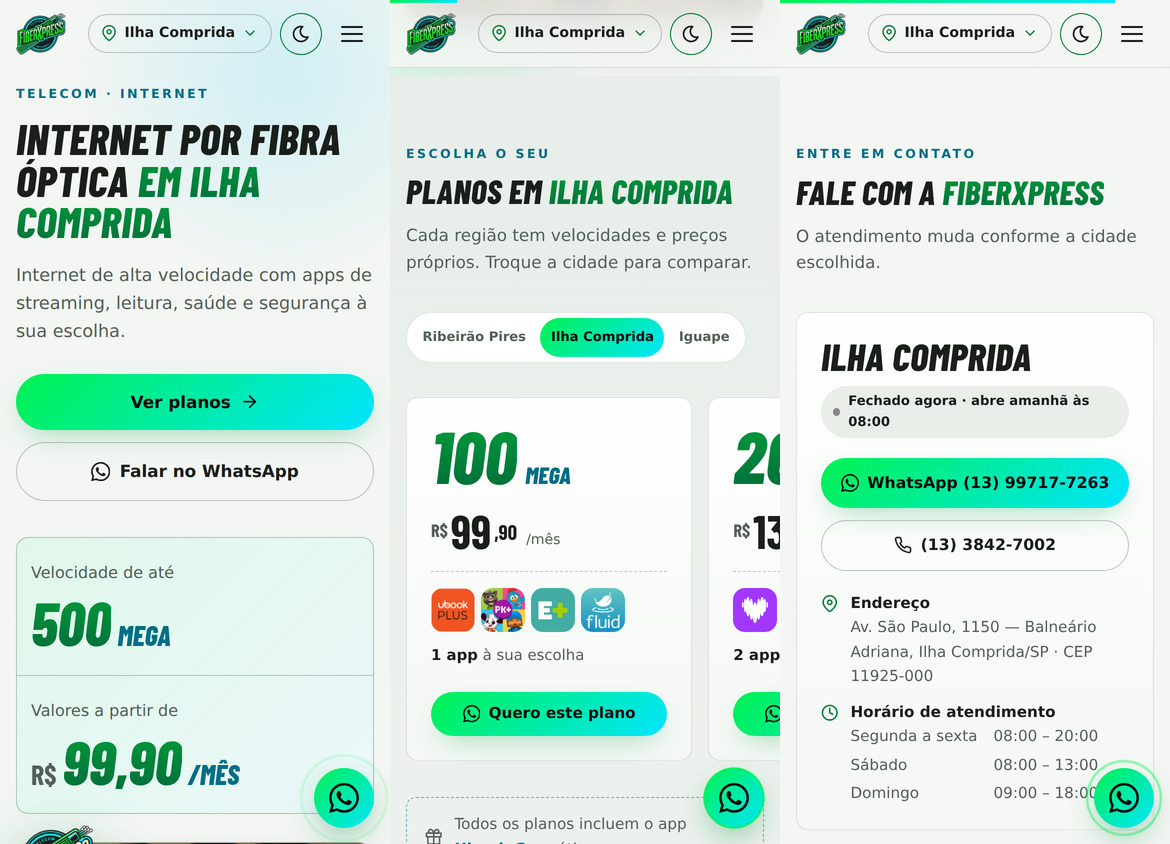
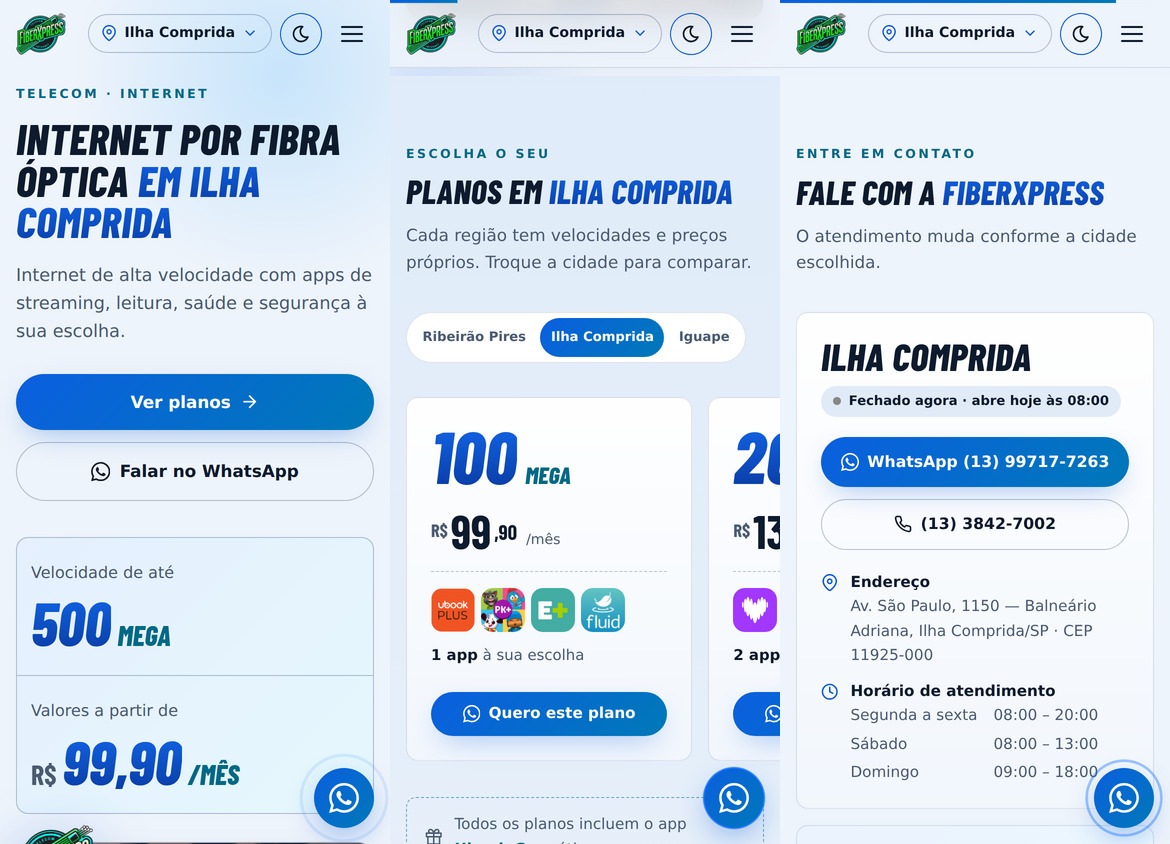
Muda o modo claro para tons de azul
O modo claro deixa de usar verde e passa a usar fundo azul-gelo, cartões
brancos, texto azul-marinho e botões, títulos e ícones em azul, para se
diferenciar do modo escuro (preto e verde). "Aberto agora" continua verde.
Atualiza as prévias e a nota.

Claude-Session: https://claude.ai/code/session_011o5UsA5SsMpq5wAWSkBXUp

diff --git a/site/esboco.html b/site/esboco.html
@@ -16,7 +16,8 @@
   --preto:#1e1e1e; --preto-2:#262626; --preto-3:#2e2e2e;
   --linha:rgba(255,255,255,.09); --linha-forte:rgba(255,255,255,.2);
   --verde:#00f251; --azul:#00e5ff; --branco:#fff; --creme:#e9edd2;
-  --verde-txt:#00f251; --azul-txt:#00e5ff;
+  --ac1-txt:#00f251; --ac2-txt:#00e5ff; --ok-txt:#00f251;
+  --btn-txt:#0d0d0d; --ac-fill:var(--verde); --fio-1:var(--verde); --fio-2:var(--azul);
   --txt:#f4f6f0; --txt-2:#aab1a6;
   --grad:linear-gradient(135deg,var(--verde),var(--azul));
   --grad-txt:linear-gradient(180deg,var(--creme) 0%,var(--verde) 62%);
@@ -42,28 +43,30 @@
   --f-txt:system-ui,-apple-system,'Segoe UI',Roboto,sans-serif;
 }
 :root[data-theme="light"]{
-  /* claro: fundo branco-esverdeado, cartões brancos, texto preto fosco; verde e azul escuros para texto */
-  --preto:#f3f6f3; --preto-2:#ffffff; --preto-3:#e9eee9;
-  --linha:rgba(20,32,24,.11); --linha-forte:rgba(20,32,24,.24);
-  --verde-txt:#007a36; --azul-txt:#006e86;
-  --txt:#1b1f1c; --txt-2:#556058;
-  --grad-txt:linear-gradient(180deg,#009a3c 0%,#00703a 100%);
-  --input-bg:#ffffff; --card-2:#f5f8f5;
-  --topo-bg:rgba(243,246,243,.88); --menu-bg:#f3f6f3; --menu-on-bg:rgba(0,122,54,.1);
-  --plano-prem:linear-gradient(180deg,#eef9f1,#fbfefc); --plano-hover-borda:rgba(0,122,54,.5); --plano-prem-borda:rgba(0,122,54,.35);
-  --sombra-hover:0 24px 40px -28px rgba(0,122,54,.5); --sombra-sel:0 24px 44px -30px rgba(0,122,54,.55);
-  --sec-alt:linear-gradient(180deg,#e8eee9,var(--preto));
-  --destaque-bg:linear-gradient(135deg,rgba(0,200,83,.12),rgba(0,168,200,.08)),#ffffff;
-  --caixa-bg:linear-gradient(135deg,rgba(0,200,83,.10),rgba(0,168,200,.08)),var(--preto-2);
-  --ficha-bg:linear-gradient(180deg,#ffffff,#f5f8f5);
-  --rodape-bg:#e6ece7; --rodape-fim:#5d675f;
-  --foto-bg:#dfe7e1; --foto-sombra:0 30px 60px -30px rgba(20,40,28,.45);
-  --foto-ov:linear-gradient(180deg,rgba(0,0,0,0) 60%,rgba(0,0,0,.28));
-  --gate-bg:rgba(236,241,237,.82); --gate-box:linear-gradient(180deg,#ffffff,#f4f8f5); --gate-op-hover:#eaf7ee;
-  --gate-sombra:0 40px 100px -30px rgba(20,40,28,.35),0 0 0 1px rgba(0,110,134,.1);
-  --legenda-bg:rgba(255,255,255,.95); --ubook-borda:rgba(0,110,134,.5);
-  --hero-glow-1:rgba(0,200,255,.14); --hero-glow-2:rgba(0,220,100,.12);
-  --btn-sombra:rgba(0,160,70,.4); --btn-sombra-h:rgba(0,160,70,.55); --fab-sombra:rgba(0,140,60,.45); --selo-sombra:rgba(0,140,60,.35);
+  /* claro (azul): fundo azul-gelo, cartões brancos, texto azul-marinho fosco. O verde fica só no modo escuro. */
+  --preto:#eef4fb; --preto-2:#ffffff; --preto-3:#e1ebf7;
+  --linha:rgba(10,40,90,.12); --linha-forte:rgba(10,40,90,.26);
+  --ac1-txt:#0a58d6; --ac2-txt:#006985; --ok-txt:#007a36;
+  --txt:#0e1b2e; --txt-2:#4a5b72;
+  --grad:linear-gradient(135deg,#0b5fe0,#0079b8);
+  --grad-txt:linear-gradient(180deg,#1264e6 0%,#0a3fa8 100%);
+  --btn-txt:#ffffff; --ac-fill:#0a6cff; --fio-1:#0a6cff; --fio-2:#00b8e6;
+  --input-bg:#ffffff; --card-2:#f2f7fd;
+  --topo-bg:rgba(238,244,251,.88); --menu-bg:#eef4fb; --menu-on-bg:rgba(10,88,214,.1);
+  --plano-prem:linear-gradient(180deg,#e8f1ff,#fafcff); --plano-hover-borda:rgba(10,88,214,.5); --plano-prem-borda:rgba(10,88,214,.35);
+  --sombra-hover:0 24px 40px -28px rgba(10,88,214,.5); --sombra-sel:0 24px 44px -30px rgba(10,88,214,.55);
+  --sec-alt:linear-gradient(180deg,#e0ecf9,var(--preto));
+  --destaque-bg:linear-gradient(135deg,rgba(10,108,255,.1),rgba(0,184,230,.1)),#ffffff;
+  --caixa-bg:linear-gradient(135deg,rgba(10,108,255,.08),rgba(0,184,230,.08)),var(--preto-2);
+  --ficha-bg:linear-gradient(180deg,#ffffff,#f2f7fd);
+  --rodape-bg:#dbe7f5; --rodape-fim:#4a5b72;
+  --foto-bg:#d3e2f3; --foto-sombra:0 30px 60px -30px rgba(10,50,120,.45);
+  --foto-ov:linear-gradient(180deg,rgba(8,25,60,0) 58%,rgba(8,25,60,.32)),linear-gradient(135deg,rgba(10,108,255,.12),rgba(0,184,230,.08));
+  --gate-bg:rgba(222,234,248,.84); --gate-box:linear-gradient(180deg,#ffffff,#f1f7fd); --gate-op-hover:#e6f0ff;
+  --gate-sombra:0 40px 100px -30px rgba(10,50,120,.35),0 0 0 1px rgba(10,108,255,.12);
+  --legenda-bg:rgba(255,255,255,.95); --ubook-borda:rgba(0,105,133,.5);
+  --hero-glow-1:rgba(0,150,255,.16); --hero-glow-2:rgba(10,90,255,.11);
+  --btn-sombra:rgba(10,90,216,.4); --btn-sombra-h:rgba(10,90,216,.55); --fab-sombra:rgba(10,90,216,.45); --selo-sombra:rgba(10,90,216,.35);
   color-scheme:light;
 }
 *{box-sizing:border-box;margin:0;padding:0}
@@ -75,7 +78,7 @@ a{color:inherit;text-decoration:none}
 button,input{font:inherit;color:inherit}
 button{background:none;border:0;cursor:pointer}
 ul{list-style:none}
-:focus-visible{outline:2px solid var(--azul-txt);outline-offset:3px;border-radius:8px}
+:focus-visible{outline:2px solid var(--ac2-txt);outline-offset:3px;border-radius:8px}
 .wrap{width:min(1180px,100% - 32px);margin-inline:auto}
 .ico{width:1.15em;height:1.15em;fill:none;stroke:currentColor;stroke-width:2;stroke-linecap:round;stroke-linejoin:round;flex:none}
 .ico--cheio{fill:currentColor;stroke:none}
@@ -83,13 +86,13 @@ ul{list-style:none}
 /* ---------- botões e tags ---------- */
 .btn{display:inline-flex;align-items:center;justify-content:center;gap:.55em;padding:.9em 1.4em;border-radius:999px;font-weight:700;font-size:.95rem;line-height:1;white-space:nowrap;transition:transform .2s,box-shadow .2s,border-color .2s,color .2s}
 .btn:active{transform:scale(.97)}
-.btn--verde{background:var(--grad);color:#0d0d0d;box-shadow:0 10px 30px -10px var(--btn-sombra)}
+.btn--verde{background:var(--grad);color:var(--btn-txt);box-shadow:0 10px 30px -10px var(--btn-sombra)}
 .btn--verde:hover{transform:translateY(-2px);box-shadow:0 14px 34px -10px var(--btn-sombra-h)}
 .btn--linha{border:1.5px solid var(--linha-forte)}
-.btn--linha:hover{border-color:var(--azul-txt);color:var(--azul-txt)}
+.btn--linha:hover{border-color:var(--ac2-txt);color:var(--ac2-txt)}
 .btn--grande{padding:1.1em 1.8em;font-size:1.05rem}
 .btn[disabled]{opacity:.45;cursor:not-allowed;transform:none}
-.eyebrow{color:var(--azul-txt);font:700 .78rem/1 var(--f-txt);letter-spacing:.2em;text-transform:uppercase}
+.eyebrow{color:var(--ac2-txt);font:700 .78rem/1 var(--f-txt);letter-spacing:.2em;text-transform:uppercase}
 .rev{display:inline-block;margin-left:8px;padding:3px 8px;border-radius:999px;background:#ffc94d;color:#1e1e1e;font:700 10.5px/1.2 var(--f-txt);letter-spacing:.04em;text-transform:uppercase;vertical-align:middle;white-space:nowrap}
 
 /* ---------- barra de progresso e topo ---------- */
@@ -101,10 +104,10 @@ ul{list-style:none}
 .menu{display:flex;gap:2px;margin-left:auto}
 .menu a{padding:.55em .95em;border-radius:999px;font-weight:600;font-size:.93rem;color:var(--txt-2);transition:color .2s,background .2s}
 .menu a:hover{color:var(--txt)}
-.menu a.on{color:var(--verde-txt);background:var(--menu-on-bg)}
+.menu a.on{color:var(--ac1-txt);background:var(--menu-on-bg)}
 .chip{display:inline-flex;align-items:center;gap:.5em;padding:.55em .9em;border:1.5px solid var(--linha-forte);border-radius:999px;font-weight:600;font-size:.88rem;white-space:nowrap}
-.chip .ico{color:var(--verde-txt)}
-.chip:hover{border-color:var(--verde-txt)}
+.chip .ico{color:var(--ac1-txt)}
+.chip:hover{border-color:var(--ac1-txt)}
 .burger{display:none;width:44px;height:44px;border-radius:12px;place-items:center;align-content:center;gap:5px}
 .burger span{display:block;width:22px;height:2px;border-radius:2px;background:var(--txt);transition:transform .3s,opacity .3s}
 .burger[aria-expanded=true] span:nth-child(1){transform:translateY(7px) rotate(45deg)}
@@ -112,7 +115,7 @@ ul{list-style:none}
 .burger[aria-expanded=true] span:nth-child(3){transform:translateY(-7px) rotate(-45deg)}
 .topo .btn{padding:.7em 1.1em;font-size:.88rem}
 .tema{display:grid;place-items:center;flex:none;width:42px;height:42px;border-radius:50%;border:1.5px solid var(--linha-forte);transition:border-color .2s,transform .2s,background-color .2s}
-.tema:hover{border-color:var(--verde-txt);transform:rotate(18deg)}
+.tema:hover{border-color:var(--ac1-txt);transform:rotate(18deg)}
 .tema .ico{width:20px;height:20px}
 .tema .ico-lua{display:none}
 :root[data-theme="light"] .tema .ico-sol{display:none}
@@ -136,7 +139,7 @@ h1 em,h2 em{font-style:inherit;background:var(--grad-txt);-webkit-background-cli
 .destaque small{font-size:1rem;color:var(--txt-2)}
 .destaque b{display:flex;align-items:baseline;gap:6px;font:800 clamp(2.6rem,11cqi,5.4rem)/.95 var(--f-tit);font-style:italic;text-transform:uppercase;white-space:nowrap}
 .destaque .num{background:var(--grad-txt);-webkit-background-clip:text;background-clip:text;-webkit-text-fill-color:transparent;color:transparent}
-.destaque em{font-size:.46em;font-style:italic;color:var(--azul-txt)}
+.destaque em{font-size:.46em;font-style:italic;color:var(--ac2-txt)}
 .destaque i{font-size:.46em;font-style:normal;color:var(--txt-2)}
 @container (max-width:440px){
   .destaque{grid-template-columns:1fr}
@@ -148,12 +151,12 @@ h1 em,h2 em{font-style:inherit;background:var(--grad-txt);-webkit-background-cli
 .foto img{display:block;width:100%;height:100%;object-fit:cover}
 .foto::after{content:"";position:absolute;inset:0;pointer-events:none;background:var(--foto-ov)}
 .hero__selo{position:absolute;z-index:2;left:-18px;top:-24px;width:104px;height:auto;animation:flutua 7s ease-in-out infinite;filter:drop-shadow(0 14px 30px var(--selo-sombra))}
-.fio{position:absolute;height:4px;width:55%;border-radius:4px;background:linear-gradient(90deg,transparent,var(--verde),var(--azul),transparent);transform:rotate(-34deg);opacity:0;filter:drop-shadow(0 0 8px var(--verde));animation:fio 5s linear infinite}
+.fio{position:absolute;height:4px;width:55%;border-radius:4px;background:linear-gradient(90deg,transparent,var(--fio-1),var(--fio-2),transparent);transform:rotate(-34deg);opacity:0;filter:drop-shadow(0 0 8px var(--fio-1));animation:fio 5s linear infinite}
 .f1{top:20%;left:-14%}.f2{top:42%;left:-22%;animation-delay:1.1s}.f3{top:64%;left:-10%;animation-delay:2.2s}.f4{top:82%;left:6%;animation-delay:3.3s}.f5{top:6%;left:10%;animation-delay:4.1s}
 @keyframes fio{0%{opacity:0;translate:-20% 14%}20%{opacity:.9}80%{opacity:.9}100%{opacity:0;translate:70% -48%}}
 @keyframes flutua{50%{transform:translateY(-12px) rotate(-1.2deg)}}
 .rolar{position:absolute;left:50%;bottom:18px;translate:-50% 0;width:26px;height:42px;border:2px solid var(--linha-forte);border-radius:14px;opacity:.7}
-.rolar::after{content:"";position:absolute;left:50%;top:8px;width:4px;height:8px;margin-left:-2px;border-radius:4px;background:var(--verde);animation:rola 1.8s ease-in-out infinite}
+.rolar::after{content:"";position:absolute;left:50%;top:8px;width:4px;height:8px;margin-left:-2px;border-radius:4px;background:var(--ac-fill);animation:rola 1.8s ease-in-out infinite}
 @keyframes rola{0%{opacity:0;transform:translateY(0)}30%{opacity:1}100%{opacity:0;transform:translateY(14px)}}
 
 /* ---------- seções ---------- */
@@ -171,7 +174,7 @@ h2{font-size:clamp(2.1rem,5.2vw,3.6rem);line-height:1}
 .seg--cheio button{flex:1}
 .seg button{padding:.7em 1.15em;border-radius:999px;font-weight:600;font-size:.9rem;color:var(--txt-2);white-space:nowrap;transition:color .2s,background .2s}
 .seg button:hover{color:var(--txt)}
-.seg button[aria-selected=true]{background:var(--grad);color:#0d0d0d}
+.seg button[aria-selected=true]{background:var(--grad);color:var(--btn-txt)}
 
 /* ---------- planos ---------- */
 .planos{display:grid;gap:16px;grid-template-columns:repeat(4,minmax(0,1fr));margin:28px 0 20px}
@@ -180,7 +183,7 @@ h2{font-size:clamp(2.1rem,5.2vw,3.6rem);line-height:1}
 .plano--prem{border-color:var(--plano-prem-borda);background:var(--plano-prem)}
 .plano__vel{display:flex;align-items:baseline;gap:8px;font-family:var(--f-tit);font-weight:800;font-style:italic;text-transform:uppercase}
 .plano__vel b{font-size:4.6rem;line-height:.85;background:var(--grad-txt);-webkit-background-clip:text;background-clip:text;-webkit-text-fill-color:transparent;color:transparent}
-.plano__vel span{font-size:1.5rem;color:var(--azul-txt)}
+.plano__vel span{font-size:1.5rem;color:var(--ac2-txt)}
 .plano__preco{display:flex;align-items:flex-start;gap:3px;font-family:var(--f-tit);font-weight:700}
 .plano__preco .rs{margin-top:.5rem;font-size:1.15rem;color:var(--txt-2)}
 .plano__preco b{font-size:2.9rem;line-height:1}
@@ -199,7 +202,7 @@ h2{font-size:clamp(2.1rem,5.2vw,3.6rem);line-height:1}
 .planos.troca .plano{animation:entra .5s both;animation-delay:calc(var(--i) * 70ms)}
 @keyframes entra{from{opacity:0;transform:translateY(18px) scale(.97)}}
 .ubook{display:flex;align-items:center;gap:12px;padding:14px 18px;border:1px dashed var(--ubook-borda);border-radius:10px;color:var(--txt-2);font-size:.95rem}
-.ubook b{color:var(--azul-txt)}
+.ubook b{color:var(--ac2-txt)}
 .sva{margin-top:48px;padding:clamp(20px,4vw,36px);border-radius:var(--raio);background:var(--preto-2);border:1px solid var(--linha);display:grid;gap:18px}
 .sva h3{font-size:1.7rem}
 .chips{display:flex;flex-wrap:wrap;gap:8px}
@@ -208,26 +211,26 @@ h2{font-size:clamp(2.1rem,5.2vw,3.6rem);line-height:1}
 /* ---------- cobertura ---------- */
 .cidades{display:grid;gap:16px;grid-template-columns:repeat(auto-fit,minmax(270px,1fr))}
 .cidade{display:flex;flex-direction:column;gap:12px;padding:26px 24px;border-radius:var(--raio);background:var(--preto-2);border:1px solid var(--linha);transition:border-color .25s,box-shadow .25s}
-.cidade.sel{border-color:var(--verde-txt);box-shadow:var(--sombra-sel)}
+.cidade.sel{border-color:var(--ac1-txt);box-shadow:var(--sombra-sel)}
 .cidade h3{font-size:2rem;line-height:1}
-.cidade h3 small{display:block;margin-bottom:6px;font:700 .75rem var(--f-txt);letter-spacing:.18em;color:var(--azul-txt);font-style:normal}
+.cidade h3 small{display:block;margin-bottom:6px;font:700 .75rem var(--f-txt);letter-spacing:.18em;color:var(--ac2-txt);font-style:normal}
 .cidade p{display:flex;gap:10px;color:var(--txt-2);font-size:.93rem}
-.cidade p .ico{margin-top:.2em;color:var(--verde-txt)}
+.cidade p .ico{margin-top:.2em;color:var(--ac1-txt)}
 .cidade .btn{margin-top:auto}
-.cidade a.mapa{color:var(--azul-txt);font-weight:600;font-size:.9rem}
+.cidade a.mapa{color:var(--ac2-txt);font-weight:600;font-size:.9rem}
 .cob{display:grid;grid-template-columns:1.2fr 1fr;gap:16px;margin-top:16px}
 .caixa{padding:clamp(22px,4vw,32px);border-radius:var(--raio);background:var(--caixa-bg);border:1px solid var(--linha);display:grid;gap:14px;align-content:start}
 .caixa h3{font-size:1.7rem}
 .check__linha{display:flex;gap:10px}
 .check input{flex:1;min-width:0;padding:.95em 1.2em;border-radius:999px;border:1.5px solid var(--linha-forte);background:var(--input-bg);outline:none}
-.check input:focus{border-color:var(--azul-txt)}
+.check input:focus{border-color:var(--ac2-txt)}
 .mini{font-size:.82rem;color:var(--txt-2)}
 .bairros{border:1.5px dashed var(--linha-forte);background:transparent}
 
 /* ---------- contratos ---------- */
 .docs{display:grid;gap:16px;grid-template-columns:repeat(auto-fit,minmax(250px,1fr))}
 .doc{display:flex;flex-direction:column;gap:12px;padding:24px;border-radius:var(--raio);background:var(--preto-2);border:1px solid var(--linha)}
-.doc .ico{width:34px;height:34px;color:var(--azul-txt)}
+.doc .ico{width:34px;height:34px;color:var(--ac2-txt)}
 .doc h3{font-size:1.5rem;line-height:1.05}
 .doc p{color:var(--txt-2);font-size:.92rem}
 .doc .btn{margin-top:auto}
@@ -242,12 +245,12 @@ h2{font-size:clamp(2.1rem,5.2vw,3.6rem);line-height:1}
 .ficha h3{font-size:2.4rem;line-height:1}
 .status{display:inline-flex;align-items:center;gap:8px;padding:.4em .9em;border-radius:999px;font-size:.82rem;font-weight:600;background:var(--preto-3)}
 .status::before{content:"";width:8px;height:8px;border-radius:50%;background:#888}
-.status.aberto{color:var(--verde-txt)}
-.status.aberto::before{background:var(--verde-txt);box-shadow:0 0 10px var(--verde)}
+.status.aberto{color:var(--ok-txt)}
+.status.aberto::before{background:var(--ok-txt);box-shadow:0 0 10px var(--ok-txt)}
 .ficha__acoes{display:flex;flex-wrap:wrap;gap:12px}
 .linhas{display:grid;gap:12px}
 .linhas li{display:flex;gap:12px;color:var(--txt-2);font-size:.95rem}
-.linhas li .ico{margin-top:.25em;color:var(--verde-txt)}
+.linhas li .ico{margin-top:.25em;color:var(--ac1-txt)}
 .linhas strong{color:var(--txt);font-weight:600}
 .horas{display:grid;gap:4px}
 .horas span{display:flex;justify-content:space-between;gap:16px;max-width:360px}
@@ -257,7 +260,7 @@ h2{font-size:clamp(2.1rem,5.2vw,3.6rem);line-height:1}
 .outras small{display:block;font-weight:400;color:var(--txt-2)}
 .sociais{display:flex;flex-wrap:wrap;gap:10px}
 .sociais a{display:inline-flex;align-items:center;gap:.6em;padding:.75em 1.1em;border-radius:999px;border:1.5px solid var(--linha-forte);font-weight:600;font-size:.9rem;transition:border-color .2s,color .2s}
-.sociais a:hover{border-color:var(--verde-txt);color:var(--verde-txt)}
+.sociais a:hover{border-color:var(--ac1-txt);color:var(--ac1-txt)}
 
 /* ---------- rodapé, flutuantes, gate ---------- */
 .rodape{padding:56px 0 calc(40px + env(safe-area-inset-bottom));border-top:1px solid var(--linha);background:var(--rodape-bg)}
@@ -266,12 +269,12 @@ h2{font-size:clamp(2.1rem,5.2vw,3.6rem);line-height:1}
 .rodape p{color:var(--txt-2);font-size:.88rem}
 .rodape p b{color:var(--txt);font-weight:600}
 .rodape nav{display:flex;flex-wrap:wrap;gap:6px 18px;font-size:.9rem;font-weight:600;color:var(--txt-2);justify-content:flex-end;max-width:300px}
-.rodape nav a:hover{color:var(--verde-txt)}
+.rodape nav a:hover{color:var(--ac1-txt)}
 .rodape__fim{margin-top:32px;padding-top:20px;border-top:1px solid var(--linha);font-size:.8rem;color:var(--rodape-fim)}
-.fab{position:fixed;right:16px;bottom:calc(16px + env(safe-area-inset-bottom));z-index:45;width:60px;height:60px;border-radius:50%;display:grid;place-items:center;background:var(--grad);color:#0d0d0d;box-shadow:0 12px 32px -6px var(--fab-sombra);transition:transform .2s}
+.fab{position:fixed;right:16px;bottom:calc(16px + env(safe-area-inset-bottom));z-index:45;width:60px;height:60px;border-radius:50%;display:grid;place-items:center;background:var(--grad);color:var(--btn-txt);box-shadow:0 12px 32px -6px var(--fab-sombra);transition:transform .2s}
 .fab:hover{transform:scale(1.07)}
 .fab .ico{width:30px;height:30px}
-.fab::after{content:"";position:absolute;inset:0;border-radius:50%;border:2px solid var(--verde);animation:pulso 2.4s ease-out infinite}
+.fab::after{content:"";position:absolute;inset:0;border-radius:50%;border:2px solid var(--ac-fill);animation:pulso 2.4s ease-out infinite}
 @keyframes pulso{from{transform:scale(1);opacity:.8}to{transform:scale(1.55);opacity:0}}
 .legenda{position:fixed;left:12px;bottom:calc(12px + env(safe-area-inset-bottom));z-index:44;max-width:calc(100% - 96px);padding:8px 12px;border-radius:12px;background:var(--legenda-bg);border:1px solid var(--linha-forte);font-size:.75rem;color:var(--txt-2);text-align:left}
 .legenda .rev{margin:0 4px 0 0}
@@ -285,10 +288,10 @@ h2{font-size:clamp(2.1rem,5.2vw,3.6rem);line-height:1}
 .gate__box>p{color:var(--txt-2);margin-bottom:22px}
 .gate__lista{display:grid;gap:10px}
 .gate__op{display:flex;align-items:center;justify-content:space-between;gap:14px;padding:16px 20px;border-radius:10px;border:1.5px solid var(--linha-forte);background:var(--preto-2);text-align:left;transition:transform .2s,border-color .2s,background .2s}
-.gate__op:hover,.gate__op:focus-visible{transform:translateY(-2px);border-color:var(--verde-txt);background:var(--gate-op-hover)}
+.gate__op:hover,.gate__op:focus-visible{transform:translateY(-2px);border-color:var(--ac1-txt);background:var(--gate-op-hover)}
 .gate__op strong{display:block;font:800 1.7rem/1 var(--f-tit);font-style:italic;text-transform:uppercase}
 .gate__op span{font-size:.82rem;color:var(--txt-2)}
-.gate__op .ico{color:var(--verde-txt);width:1.4em;height:1.4em}
+.gate__op .ico{color:var(--ac1-txt);width:1.4em;height:1.4em}
 .gate__fechar{margin-top:16px;font-size:.88rem;color:var(--txt-2);text-decoration:underline;text-underline-offset:3px}
 
 /* ---------- responsivo ---------- */
@@ -787,7 +790,7 @@ function sincronizarTema() {
   const claro = temaAtual() === 'light';
   btnTema.setAttribute('aria-pressed', claro);
   btnTema.setAttribute('aria-label', claro ? 'Ativar modo escuro' : 'Ativar modo claro');
-  const meta = $('meta[name="theme-color"]'); if (meta) meta.setAttribute('content', claro ? '#f3f6f3' : '#1e1e1e');
+  const meta = $('meta[name="theme-color"]'); if (meta) meta.setAttribute('content', claro ? '#eef4fb' : '#1e1e1e');
 }
 btnTema.addEventListener('click', () => {
   const novo = temaAtual() === 'light' ? 'dark' : 'light';

diff --git a/site/LEIA-ME.md b/site/LEIA-ME.md
@@ -27,4 +27,4 @@ Os arquivos originais dos logos estão em `assets/img/` (`logo-colorido.png`, `l
 7. **Ícones dos apps:** vêm do kit oficial no Canva ("Cópia de Ícones Aplicativos", design `DAG6dnO4yD4`). Os 17 recortes estão em `assets/img/apps/` (108 px, cantos arredondados): Smart Content, Ubook, HotGo, QNutri, Hub Vantagens, Social Comics, Fluid, Curta!On, Docway, Zen, Estuda+, Pequenos Leitores, Kiddle Pass, HBO Max, Disney+, SKY+ e Playkids+. Deezer usa a marca vetorial. **São recortes de miniatura:** para o site final, baixar os arquivos em alta resolução do Canva. Sem ícone no kit: Kaspersky, Looke, Noping, Playlist, Hube Revistas, O Jornalista, Queima Diária. Falta confirmar com o fornecedor dos SVA que os ícones podem aparecer no site.
 8. **Foto no início (provisória):** a imagem do hero é uma foto de três pessoas usando notebook e celular, feita no Canva (design `DAHXMUZZV0Y`, "Foto aconchegante de pessoas usando a internet"). O arquivo usado no esboço é a miniatura de 387×516 px, que fica levemente suave em telas grandes e de alta densidade. Falta baixar a versão em alta resolução no Canva (Compartilhar > Baixar > JPG) e conferir se a licença do plano permite uso comercial no site. A ilustração vetorial anterior continua no histórico do git.
 9. A faixa "Velocidade de até X Mega / Valores a partir de R$ 99,90" calcula o X pela cidade escolhida (600 em Ribeirão Pires, 500 nas outras duas).
-10. **Modo claro:** o botão (sol/lua) fica no canto superior direito e lembra a escolha no navegador (`localStorage`, chave `fx-tema`). O site abre no modo escuro, que é o da marca; para abrir no modo do aparelho do visitante, basta usar `prefers-color-scheme` quando não houver escolha salva. No modo claro, textos verdes e azuis usam tons mais escuros (`--verde-txt`, `--azul-txt`) para manter o contraste; os botões em degradê verde e azul continuam iguais. Prévias: `esboco-previa-claro-desktop.jpg` e `esboco-previa-claro-mobile.jpg`.
+10. **Modo claro (azul):** o botão (sol/lua) fica no canto superior direito e lembra a escolha no navegador (`localStorage`, chave `fx-tema`). O modo escuro (preto fosco e verde) é o padrão da marca; o modo claro usa azuis (fundo azul-gelo, cartões brancos, texto azul-marinho, botões e títulos em azul) para se diferenciar. Para abrir no modo do aparelho do visitante, basta usar `prefers-color-scheme` quando não houver escolha salva. As cores ficam em variáveis no início do CSS (`:root` e `:root[data-theme="light"]`); "Aberto agora" continua verde nos dois modos. Prévias: `esboco-previa-claro-desktop.jpg` e `esboco-previa-claro-mobile.jpg`.
